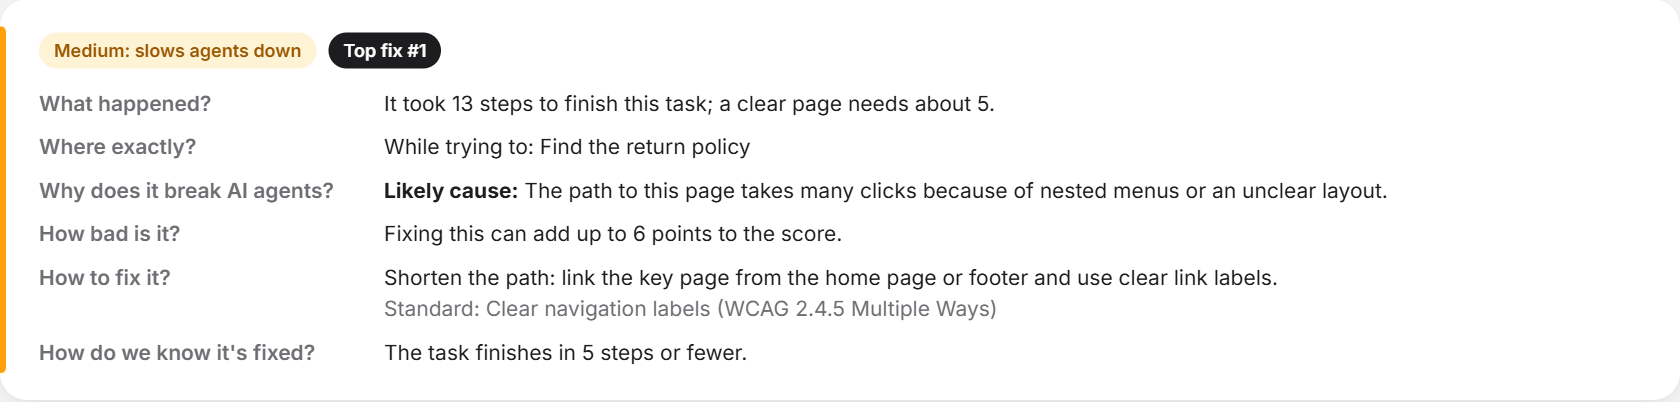
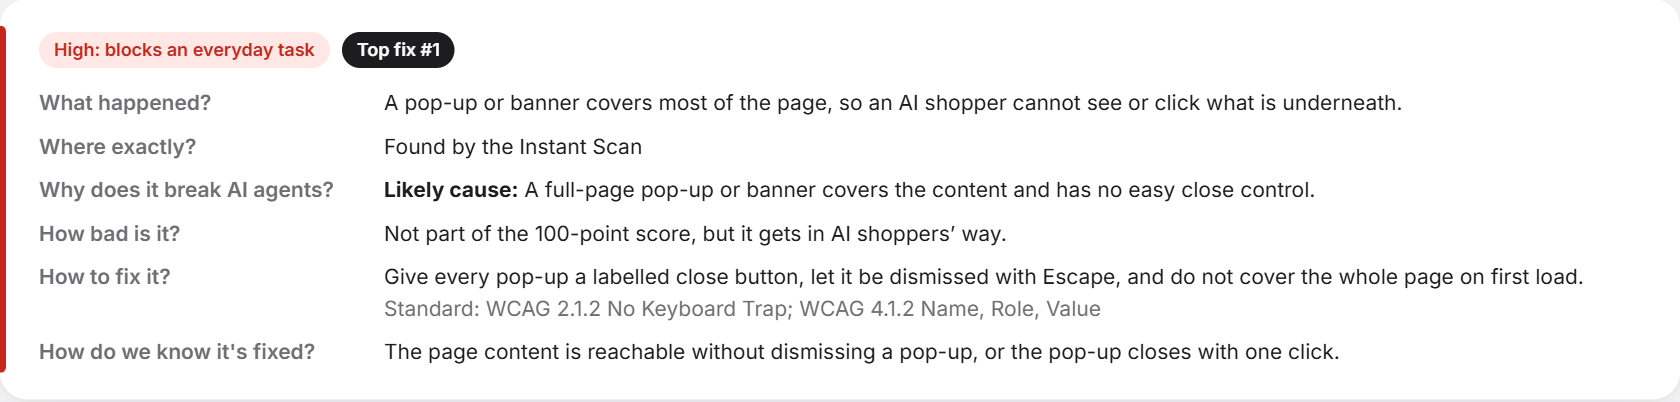
Update README
- Results section shows the demo store run and observations from test runs
- Updated screenshots: demo store score card, home page and finding card
- Home page placeholder and fact card updated; e2e test updated

diff --git a/apps/web/src/pages/TestPage.jsx b/apps/web/src/pages/TestPage.jsx
@@ -39,7 +39,7 @@ function TestForm({ busy, onStart, onDemo }) {
           type="text"
           value={url}
           onChange={(e) => setUrl(e.target.value)}
-          placeholder="Website to test, e.g. nykaa.com"
+          placeholder="Website to test, e.g. your-store.com"
           aria-label="Website to test"
           disabled={busy}
         />
@@ -120,13 +120,13 @@ function Hero({ children }) {
   );
 }
 
-/** Real findings from today's runs; each opens its report. */
+/** Real findings from runs on our own demo store; each opens its report. No third-party sites are named here. */
 function Facts() {
   return (
     <section className="hero-facts" aria-label="What our agents found">
-      <a className="fact fact-orange" href="#/test/rep_20261031_demo_myntra">
-        <b>Blocked</b>
-        <span>Myntra turns away AI agents from cloud servers. They only got in through an Indian home address.</span>
+      <a className="fact fact-orange" href="#/test/rep_demo_flaws_on">
+        <b>Caught in seconds</b>
+        <span>The Instant Scan flagged a full-page pop-up and a price drawn as an image on our demo store, before the agents finished.</span>
       </a>
       <a className="fact fact-yellow" href="#/test/rep_demo_flaws_off/rep_demo_flaws_on">
         <b>35 → 19 steps</b>

diff --git a/README.md b/README.md
@@ -8,7 +8,7 @@ Real [TinyFish](https://tinyfish.ai) web agents shop your site, live, and show y
 
 ![Node](https://img.shields.io/badge/node-20.19%2B-3c873a?style=flat-square) ![Built on TinyFish](https://img.shields.io/badge/built%20on-TinyFish-2b5fb8?style=flat-square) ![Tests](https://img.shields.io/badge/tests-node%3Atest%20%2B%20Playwright-6b7480?style=flat-square) ![Status](https://img.shields.io/badge/status-in%20development-c8501e?style=flat-square)
 
-[Why](#why-it-exists) · [Results](#what-it-found-on-real-sites) · [How it works](#how-it-works) · [Features](#features) · [Quick start](#quick-start) · [CLI](#from-the-terminal) · [GitHub Action](#in-your-pull-requests)
+[Why](#why-it-exists) · [Results](#what-we-observed-in-testing) · [How it works](#how-it-works) · [Features](#features) · [Quick start](#quick-start) · [CLI](#from-the-terminal) · [GitHub Action](#in-your-pull-requests)
 
 <br>
 
@@ -33,21 +33,21 @@ Static checkers read `robots.txt` and markup; none of them actually tries to buy
 
 ---
 
-## What it found on real sites
+## What we observed in testing
 
-| Site | Score | What happened |
-|:--|:--:|:--|
-| **myntra.com** | **5**&nbsp;/&nbsp;100 | The agent arriving from a cloud server got an error page. The same task passed in 5 steps through an Indian home address: **Myntra blocks cloud AI agents.** |
-| **nykaa.com** | **76**&nbsp;/&nbsp;100 | All four tasks passed, but finding the return policy took 13 steps, over four minutes and a web search. |
-| **swiggy.com** | **0**&nbsp;/&nbsp;100 | The item went into the cart, but the agent never found the cart total. |
+We built a small demo store with four flaws we can switch on and off: a pop-up covering the page, a price drawn as an image, an icon-only cart button and a returns page buried several clicks deep. With the flaws on, the agents still finished every task, but they needed **35 steps instead of 19**, the run cost **₹49 instead of ₹27**, and the agent put **2 units in the cart instead of 1**. A pass/fail checker would see nothing wrong.
 
-On our own demo store, four small flaws (a pop-up, a price drawn as an image, an icon-only cart button, a buried returns page) did not stop the agent, but it needed **35 steps instead of 19**, cost **₹49 instead of ₹27**, and ordered **2 units instead of 1**. A pass/fail checker would see nothing wrong.
+<p align="center"><img src="docs/images/score-card.png" alt="Demo store report: score 91 out of 100 with the top 3 fixes" width="900"><br><sub>Our demo store with its flaws on: the score and the top 3 fixes</sub></p>
 
-<p align="center"><img src="docs/images/myntra-bot-wall.png" alt="Myntra report: blocks AI agents from cloud servers, 5 out of 100, with the top fix" width="900"><br><sub><b>Myntra:</b> blocked from the cloud, let in from an Indian address</sub></p>
+<p align="center"><img src="docs/images/before-after.png" alt="Demo store before and after fixes: 91 to 97, steps 35 to 19, cost Rs 49 to Rs 27" width="900"><br><sub>The same store after the fixes: half the steps and close to half the cost</sub></p>
 
-<p align="center"><img src="docs/images/before-after.png" alt="Demo store before and after fixes: 91 to 97, steps 35 to 19, cost Rs 49 to Rs 27" width="900"><br><sub><b>Demo store:</b> same score band, half the effort after the fixes</sub></p>
+In test runs on large public shopping sites, our agents also ran into:
 
-<sub>Real TinyFish runs on 31 Oct and 1 Nov 2026. Nykaa: all four tasks; Myntra and Swiggy: one task each.</sub>
+- an error page when arriving from a cloud server, while the same task completed from a residential address;
+- a return policy that took 13 steps, over four minutes and a web search to find;
+- an item that went into the cart, with a cart total the agent could not find.
+
+<sub>These are observations from individual automated test runs on 31 Oct and 1 Nov 2026. They describe what our agents encountered on those days, not any site's policies or intentions, and results vary between runs.</sub>
 
 ---
 
@@ -69,11 +69,9 @@ flowchart LR
 |:--|:--|
 | **1. Instant Scan** | Opens the home page and a product page in a real remote browser and measures what gets in an agent's way: pop-ups covering the page, buttons with no label, prices only in images, missing product data. |
 | **2. Four agents** | Try the four tasks at the same time. You watch each one's real browser and every step as it happens. |
-| **3. Bot-wall check** | If an agent looks blocked, the same task runs again through an Indian home address, then with a stealth browser. Where it first passes tells you exactly what kind of wall the site has, and a broken page is never mistaken for a wall. |
+| **3. Bot-wall check** | If an agent looks blocked, the same task runs again through a residential address in India, then with a stealth browser. Where it first succeeds shows whether the site treats cloud-based agents differently, and a broken page is never mistaken for that. |
 | **4. Scoring** | Plain code, never an AI's opinion: 25 points per task for passing, few steps, speed and no web search, capped when it only passed through a workaround. The same run always gets the same score. |
 | **5. Findings** | Each one answers six questions: what happened, where, why it breaks agents, how bad it is, how to fix it, and how to check it's fixed. Always a site cause, never "the agent got confused". |
-
-<p align="center"><img src="docs/images/live-lanes.png" alt="Four live agent lanes" width="900"><br><sub>Four agents working at once, each with its own steps, screenshot and answer</sub></p>
 
 <p align="center"><img src="docs/images/finding-card.png" alt="A finding card answering six questions" width="900"><br><sub>Every finding answers the six questions a store owner or developer asks</sub></p>
 
@@ -85,16 +83,14 @@ flowchart LR
 |:--|:--|
 | **Test** | Four everyday shopping tasks plus your own custom task, live, with a score, Top 3 fixes and a screenshot for every step |
 | **Instant Scan** | Page-level problems in seconds, before the agents finish |
-| **Bot-wall check** | Proves whether a site blocks AI agents from cloud servers or automated browsers |
+| **Bot-wall check** | Shows whether a site responds differently to agents arriving from cloud servers or to automated browsers |
 | **Before / after** | One click to re-test after fixes, with steps and cost saved |
 | **Watch** | Scheduled re-tests of a live site; alerts on Slack or Discord only after a confirming re-run |
 | **Race** | Up to three sites on the same task, ranked by fewest steps, then fastest |
-| **Leaderboard** | Saved real results, ranked |
+| **Leaderboard** | Saved test results, ranked |
 | **CLI** | Test a public site or one still on your laptop (through a Cloudflare tunnel) from the terminal |
 | **GitHub Action** | Score a pull request's preview deployment and comment on the PR |
 | **Badge** | Show your Agent-Ready score in your own README |
-
-<p align="center"><img src="docs/images/leaderboard.png" alt="Leaderboard of tested stores" width="900"></p>
 
 ### Built on TinyFish
 
@@ -117,7 +113,7 @@ Every report shows its cost: about $0.016 per agent step, shown in rupees.
 You need **Node 20.19** or newer.
 
 > [!TIP]
-> **Try it free, no key needed.** Replay mode plays back real recorded runs of Nykaa, Myntra, Swiggy and the demo store.
+> **Try it free, no key needed.** Replay mode plays back real recorded test runs, including our demo store.
 
 ```bash
 git clone https://github.com/Manideep-2007-ok/Agent-Ready.git
